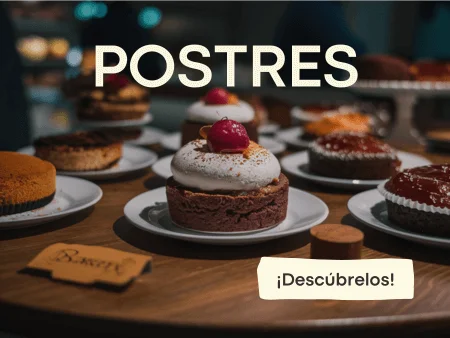
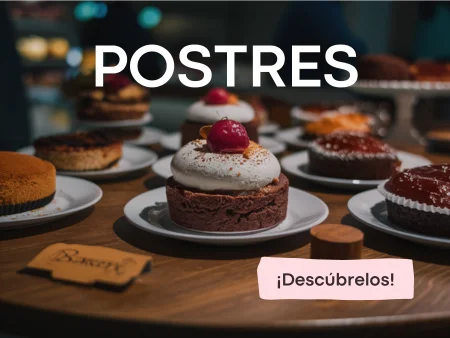
cambio de colores

diff --git a/CSS/style.css b/CSS/style.css
@@ -8,7 +8,7 @@
 /*footer */
 .footer {
   font-family: "DM Sans";
-  color: #942200;
+  color: #7A0000;
   font-size: 14px;
   text-align: center;
   padding: 20px;
@@ -79,7 +79,7 @@ nav {
 }
 
 .offcanvas-body {
-  background-color: #F8F7DA;
+  background-color: #FFDDE2;
 }
 
 .bg-body-tertiary {
@@ -116,7 +116,7 @@ nav {
   width: 180px;
   height: 110px;
   padding: 15px 0 20px 0;
-  border-color: #F8F7DA;
+  border-color: #FFDDE2;
 }
 
 .dropdownitemcont {
@@ -140,8 +140,8 @@ nav {
 }
 
 .menucel {
-  background-color: #F8F7DA;
-  border-color: #F8F7DA;
+  background-color: #FFDDE2;
+  border-color: #FFDDE2;
   padding: 0;
   height: 70px;
 }
@@ -192,7 +192,7 @@ nav {
 
 /* fin navbar */
 body {
-  background-color: #F8F7DA;
+  background-color: #FFDDE2;
 }
 
 /* inicio página principal (index) */
@@ -236,7 +236,7 @@ body {
 
 .pnosotros {
   font-family: "DM Sans";
-  color: #942200;
+  color: #7A0000;
   font-size: 16px;
   text-align: justify;
   max-width: 400px;
@@ -335,7 +335,7 @@ body {
 
 .pservicios {
   font-family: "DM Sans";
-  color: #942200;
+  color: #7A0000;
   font-size: 15px;
   max-width: 250px;
   text-align: center;
@@ -508,13 +508,13 @@ body {
 }
 
 .fa-location-dot {
-  color: #942200;
+  color: #7A0000;
   padding: 5px;
 }
 
 .pcontactanos2 {
   font-family: "DM Sans";
-  color: #942200;
+  color: #7A0000;
   font-size: 12px;
 }
 
@@ -528,7 +528,7 @@ body {
   padding: 5px;
 }
 .rightcontactanos i {
-  color: #942200;
+  color: #7A0000;
   font-size: 18px;
   padding: 5px;
   margin-top: 3px;
@@ -554,14 +554,14 @@ body {
 
 .pcontactanos3 {
   font-family: "DM Sans";
-  color: #942200;
+  color: #7A0000;
   font-size: 14px;
   padding: 5px;
   resize: none;
 }
 
 .pcontactanos3:focus-within {
-  outline: 1px solid #942200;
+  outline: 1px solid #7A0000;
 }
 
 .contactanosform {
@@ -583,9 +583,9 @@ body {
 
 .botonenviar {
   font-family: "DM Sans";
-  color: #F8F7DA;
+  color: #FFDDE2;
   font-size: 10px;
-  background-color: #942200;
+  background-color: #7A0000;
   display: block;
   margin: 0 auto;
   border: none;
@@ -729,7 +729,7 @@ body {
 /* Pedidos Personalizados: inicio sección "Pasos" */
 .containerpedidosp {
   height: auto;
-  background-color: #F8F7DA;
+  background-color: #FFDDE2;
   padding: 30px 40px 20px;
 }
 
@@ -745,7 +745,7 @@ body {
 
 .ppedidos1 {
   font-family: "DM Sans";
-  color: #942200;
+  color: #7A0000;
   font-size: 14px;
   display: flex;
   max-width: 650px;
@@ -762,7 +762,7 @@ body {
   padding: 30px 20px 10px;
 }
 .containerpasos i {
-  color: #F8F7DA;
+  color: #FFDDE2;
   font-size: 15px;
   margin-bottom: 10px;
   background-color: #493843;
@@ -822,7 +822,7 @@ body {
 
 .ppedidos2 {
   font-family: "DM Sans";
-  color: #942200;
+  color: #7A0000;
   font-size: 13px;
 }
 
@@ -911,7 +911,7 @@ body {
 
 .titulocardpp {
   font-family: "Anek Devanagari";
-  color: #F8F7DA;
+  color: #FFDDE2;
   font-size: 23px;
   text-align: center;
   padding: 20px 20px 15px 20px;
@@ -919,7 +919,7 @@ body {
 
 .hcardpp {
   font-family: "Anek Devanagari";
-  color: #F8F7DA;
+  color: #FFDDE2;
   font-size: 23px;
   text-align: left;
   padding: 20px 20px 5px;
@@ -927,7 +927,7 @@ body {
 
 .pcardpp {
   font-family: "DM Sans";
-  color: #F8F7DA;
+  color: #FFDDE2;
   font-size: 13px;
   text-align: justify;
   padding: 0 20px 20px;
@@ -1002,7 +1002,7 @@ body {
 
 .ppostres {
   font-family: "DM Sans";
-  color: #F8F7DA;
+  color: #FFDDE2;
   font-size: 13px;
   text-align: justify;
   width: 100%;
@@ -1140,7 +1140,7 @@ body {
 
 .ppromo {
   font-family: "DM Sans";
-  color: #942200;
+  color: #7A0000;
   font-size: 14px;
   padding: 20px;
   text-align: center;
@@ -1223,7 +1223,7 @@ body {
 
 .ptortastem {
   font-family: "DM Sans";
-  color: #F8F7DA;
+  color: #FFDDE2;
   font-size: 14px;
   text-align: center;
 }

diff --git a/scss/base/_variables.scss b/scss/base/_variables.scss
@@ -1,7 +1,7 @@
 $blanco: white;
-$rosado: #F8F7DA;
+$rosado: #FFDDE2;
 $morado: #493843;
-$cereza: #942200;
+$cereza: #7A0000;
 $rosado2: #D9AA8F;
 $titulo: 'Anek Devanagari';
 $parrafo: 'DM Sans';
